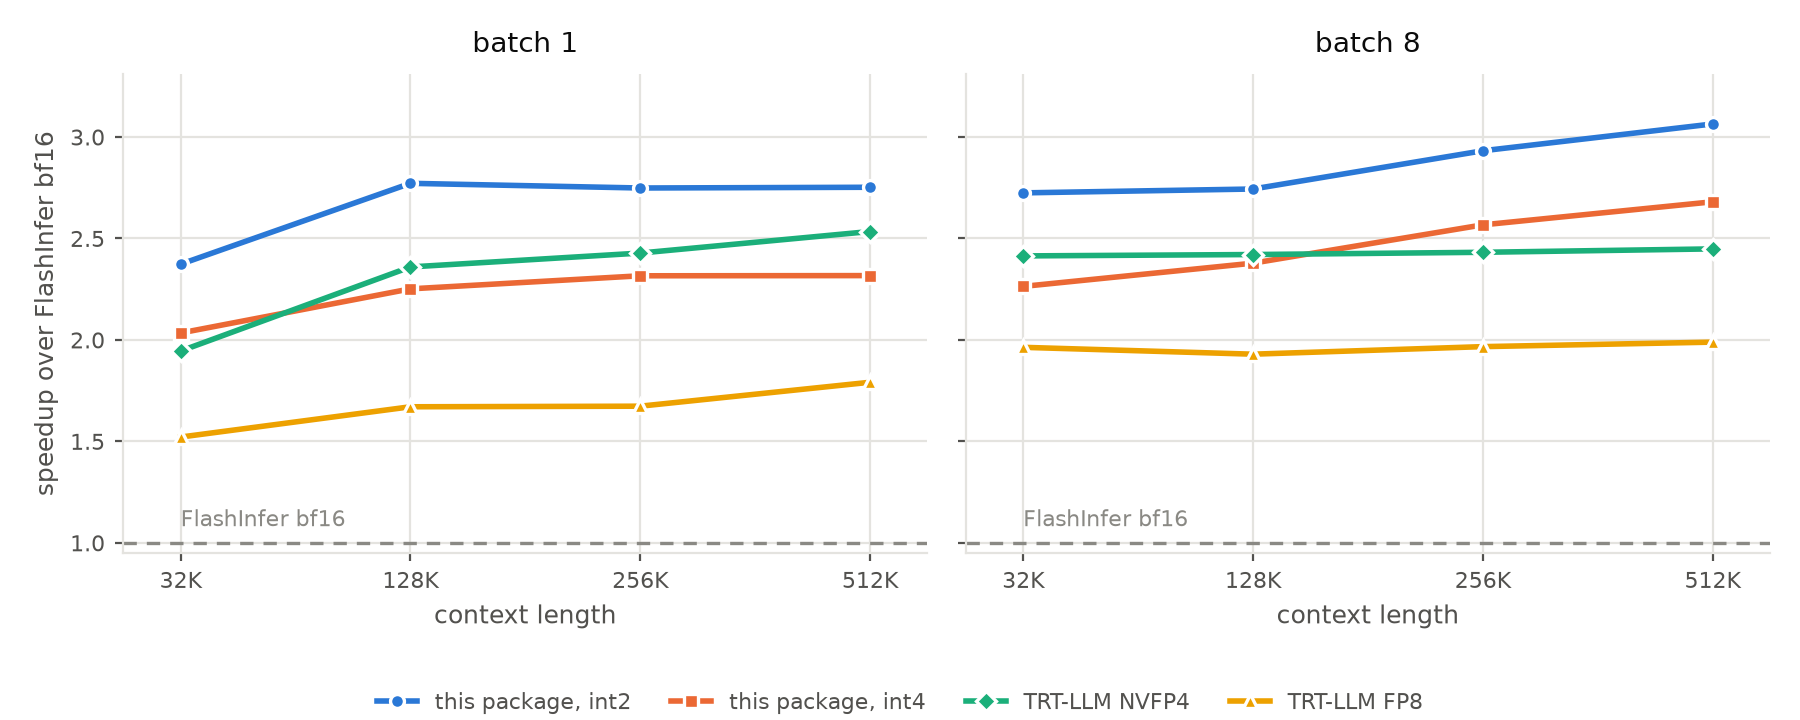
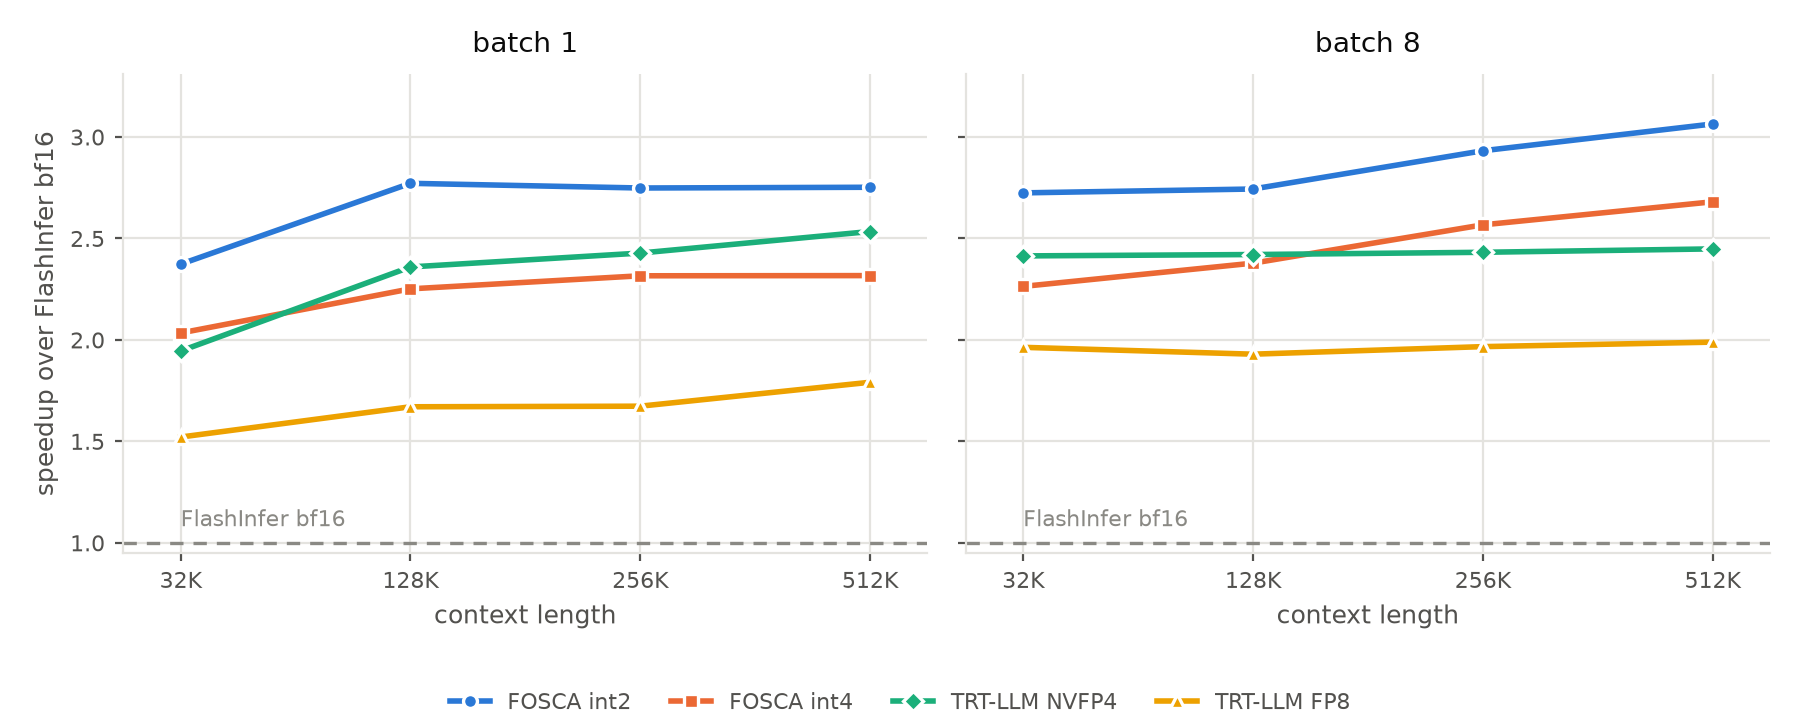
Write the project name as FOSCA in prose
The name reads as a proper noun in a title, a legend or a sentence, and as an
identifier only where it is one. So the README heading, the integration page's
heading, the design page's opening, the citation title, CONTRIBUTING and
SECURITY now say FOSCA, and the benchmark table headers and the figure legends
name it instead of "this package".

Unchanged, because there they are code: `import fosca`, `pip install "fosca[cu13]"`,
`cd fosca`, `src/fosca/`, the distribution name in `pyproject.toml`, and the
CHANGELOG line that records the rename.

Changed region(s): [[0.4044, 0.9472, 0.8089, 1.0], [0.2178, 0.9472, 0.3111, 1.0]]

diff --git a/benchmarks/plot_decode.py b/benchmarks/plot_decode.py
@@ -27,8 +27,8 @@ BASE = "flashinfer_bf16"
 # the marker, not by colour alone. bf16 is the reference line rather than a
 # series, so it takes no hue.
 SERIES = [
-    ("ours_int2", "this package, int2", "#2a78d6", "o"),
-    ("ours_int4", "this package, int4", "#eb6834", "s"),
+    ("ours_int2", "FOSCA int2", "#2a78d6", "o"),
+    ("ours_int4", "FOSCA int4", "#eb6834", "s"),
     ("trtllm_nvfp4", "TRT-LLM NVFP4", "#1baf7a", "D"),
     ("trtllm_fp8", "TRT-LLM FP8", "#eda100", "^"),
 ]

diff --git a/README.md b/README.md
@@ -1,4 +1,4 @@
-# fosca
+# FOSCA
 
 Quantized-KV paged GQA decode kernels for Hopper (SM90) and Blackwell (SM100),
 written in CuTe DSL and exposed through one architecture-agnostic wrapper.
@@ -143,7 +143,7 @@ bf16 at the same shape, so the dashed line at 1.00 is bf16.
 
 ![Decode speedup over FlashInfer bf16 on B200, at batch 1 and 8](docs/decode-latency-b200.png)
 
-| Batch | Context | int2 | int4 | FlashInfer bf16 | TRT-LLM FP8 | TRT-LLM NVFP4 |
+| Batch | Context | FOSCA int2 | FOSCA int4 | FlashInfer bf16 | TRT-LLM FP8 | TRT-LLM NVFP4 |
 |---:|---:|---:|---:|---:|---:|---:|
 | 1 | 32K | **15.0** | 17.5 | 35.6 | 23.4 | 18.3 |
 | 1 | 128K | **35.5** | 43.7 | 98.4 | 58.9 | 41.7 |
@@ -161,7 +161,7 @@ TensorRT-LLM column.
 
 ![Decode speedup over FlashInfer bf16 on H100, at batch 1 and 8](docs/decode-latency-h100.png)
 
-| Batch | Context | int2 | int4 | FlashInfer bf16 |
+| Batch | Context | FOSCA int2 | FOSCA int4 | FlashInfer bf16 |
 |---:|---:|---:|---:|---:|
 | 1 | 32K | **25.8** | 33.0 | 63.4 |
 | 1 | 128K | **73.7** | 79.7 | 200.6 |
@@ -182,10 +182,10 @@ over a cold L2, the median of the fully observed iterations. It excludes host
 dispatch and the paged-attention wrapper, so it is not an end-to-end serving
 latency.
 
-The columns for this package were measured by driving `PagedDecodeWrapper` from
-this release; `benchmarks/decode_latency.csv` holds the values and
+The FOSCA columns were measured by driving `PagedDecodeWrapper` from this
+release; `benchmarks/decode_latency.csv` holds the values and
 `benchmarks/plot_decode.py` renders both figures. The competitor columns were
-measured by the project's benchmark harness. Re-measuring this package's columns
+measured by the project's benchmark harness. Re-measuring the FOSCA columns
 reproduced the tables to within 1.5% on both GPUs, except for one B200 cell,
 batch 8 at 128K, which is reported at the value it reproduces.
 

diff --git a/docs/design.md b/docs/design.md
@@ -1,6 +1,6 @@
 # Design and Internals
 
-This page describes how `fosca` is built: the package layout, how the wrapper
+This page describes how FOSCA is built: the package layout, how the wrapper
 picks a kernel for the device it runs on, the lifecycle of that wrapper, the workspace
 the split-K reduction needs, and how a launch is bound to a CUDA stream. It is written
 for contributors and for integrators wiring the package into a serving engine, who want

diff --git a/SECURITY.md b/SECURITY.md
@@ -8,7 +8,7 @@ problem.
 
 ## Scope
 
-This project compiles and launches GPU kernels. Reports of interest include:
+FOSCA compiles and launches GPU kernels. Reports of interest include:
 
 - memory-safety or out-of-bounds access in a kernel, for example through a page
   table or sequence length the planner accepts;

diff --git a/CONTRIBUTING.md b/CONTRIBUTING.md
@@ -2,8 +2,8 @@
 
 ## Setup
 
-The package is pure Python and JIT-compiles its kernels, so a source checkout is
-all you need:
+FOSCA is pure Python and JIT-compiles its kernels, so a source checkout is all
+you need:
 
 ```sh
 git clone https://github.com/donglinz/fosca.git

diff --git a/docs/integration.md b/docs/integration.md
@@ -1,4 +1,4 @@
-# Integrating fosca into a decode loop
+# Integrating FOSCA into a decode loop
 
 This page covers the plan/run lifecycle, the page-table inputs, writing the
 cache, what to keep out of the per-step path, and CUDA graph capture.
